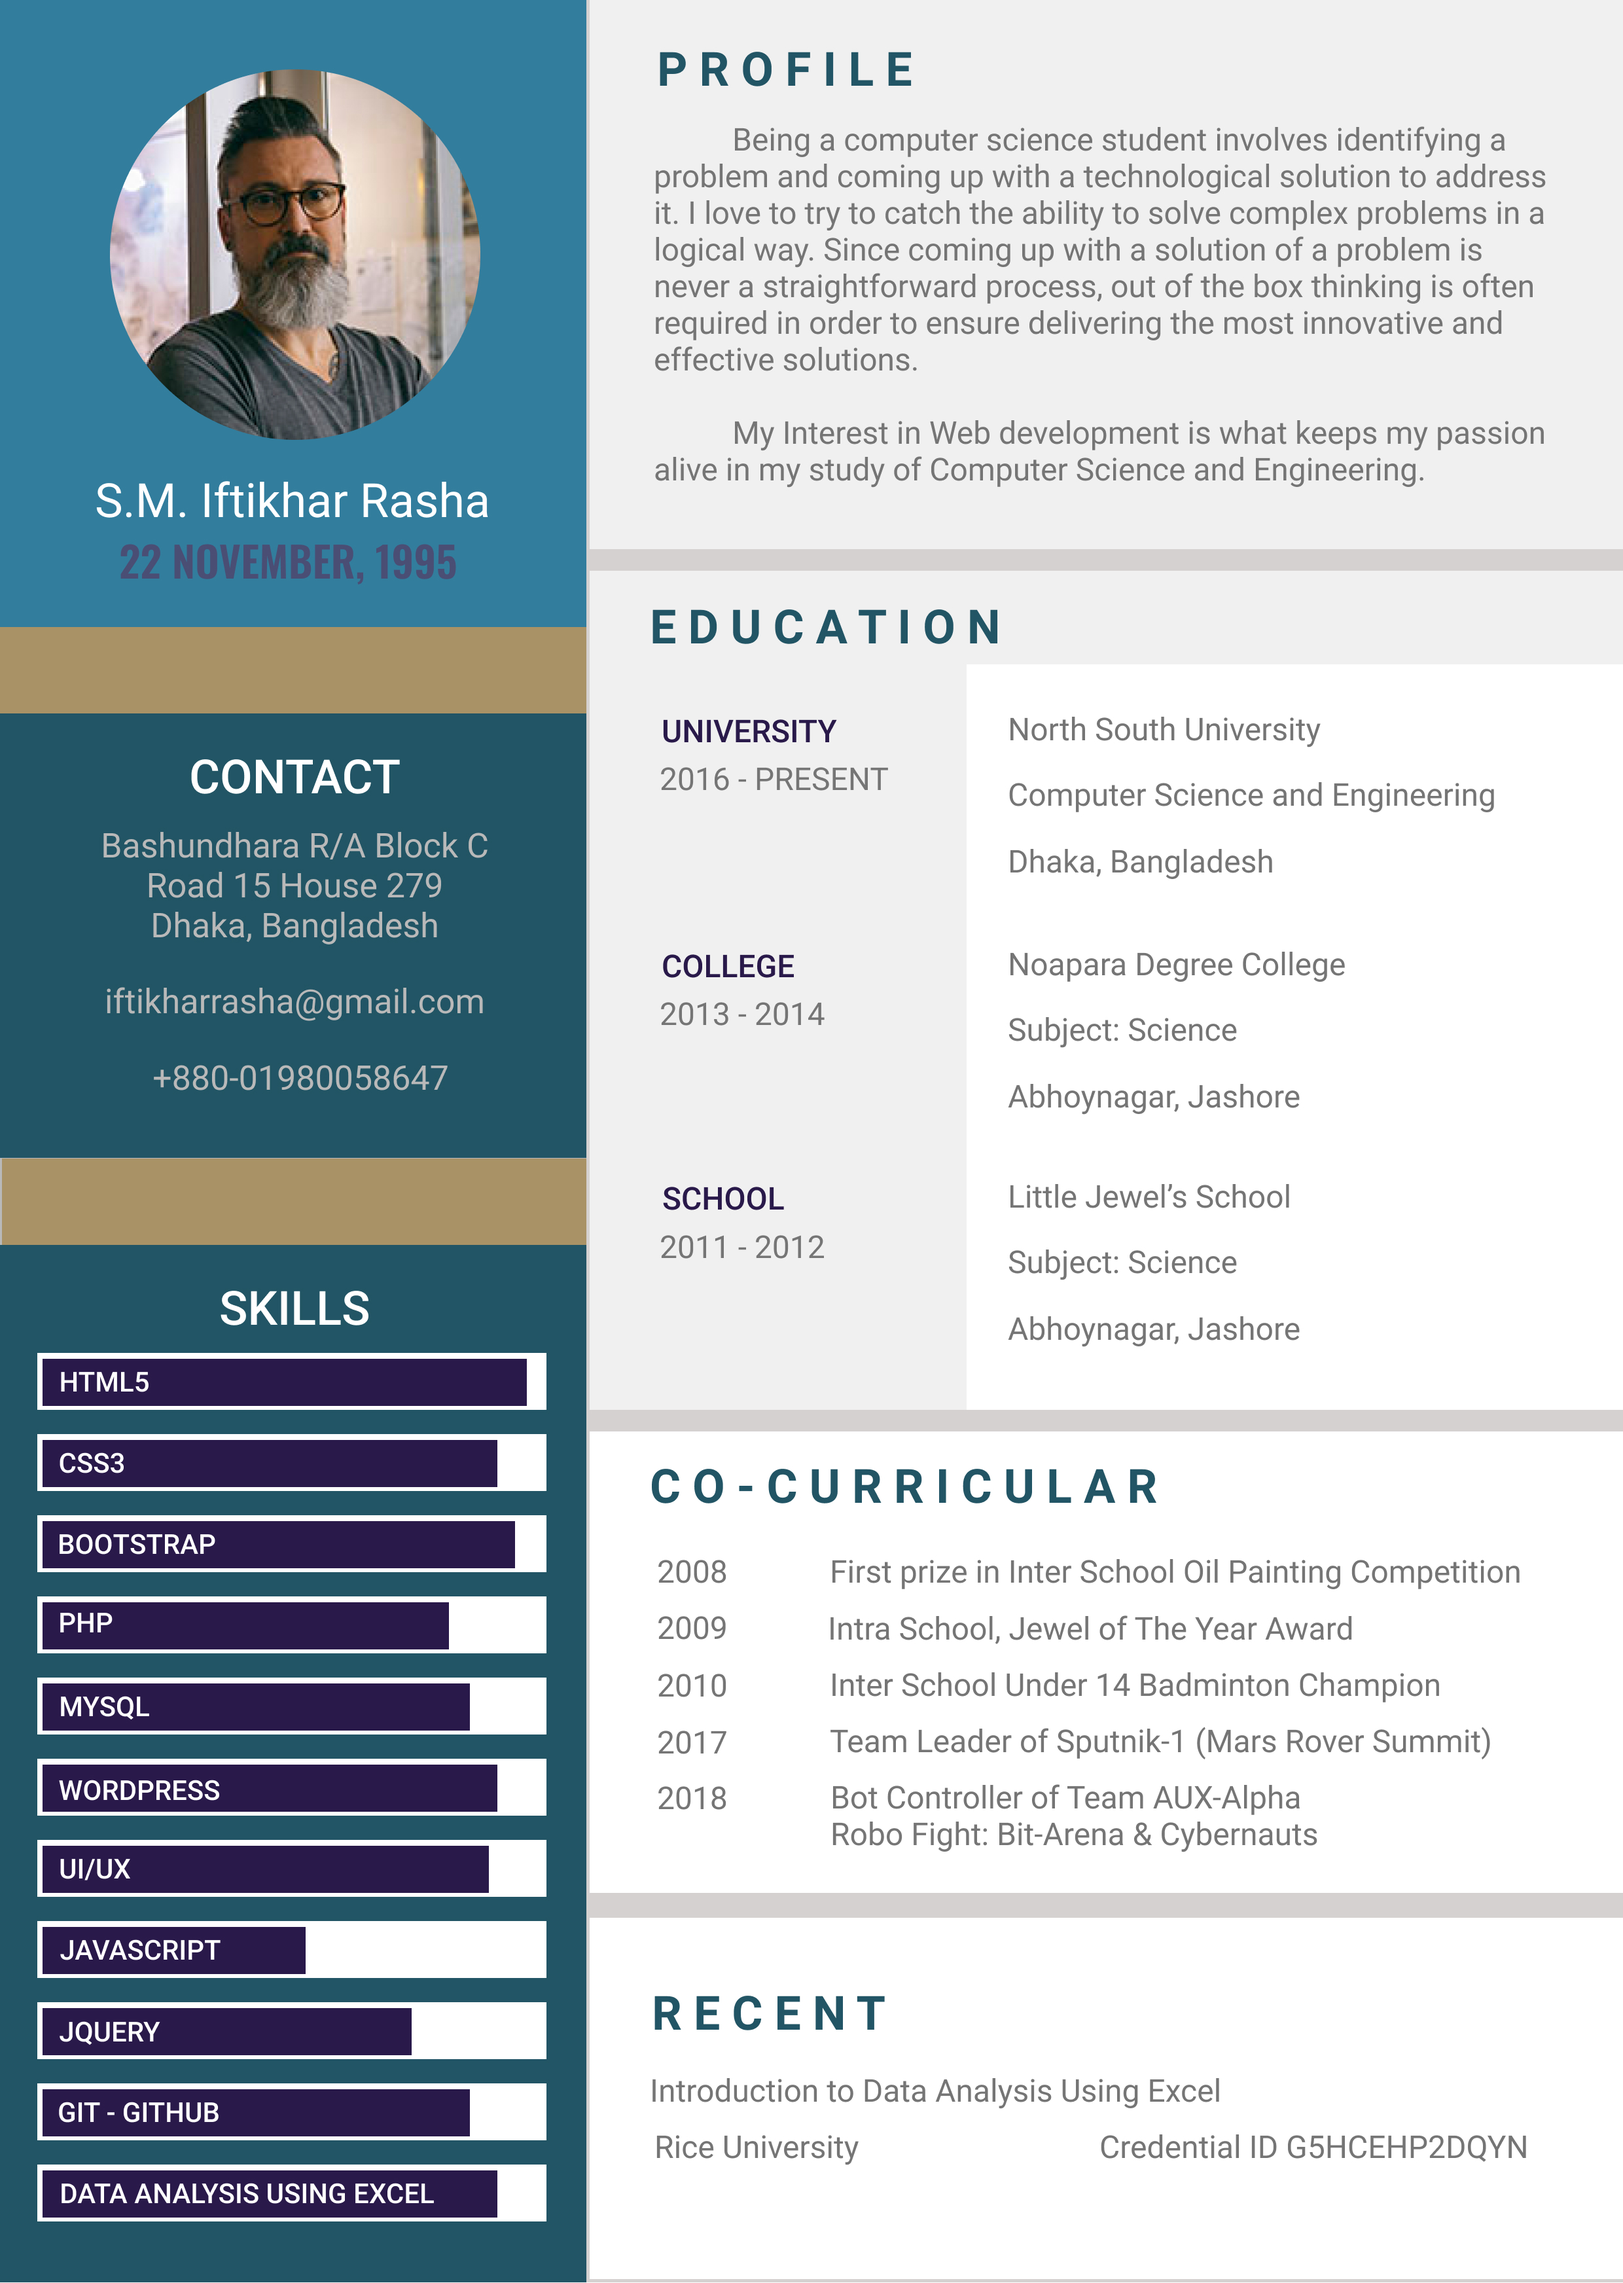
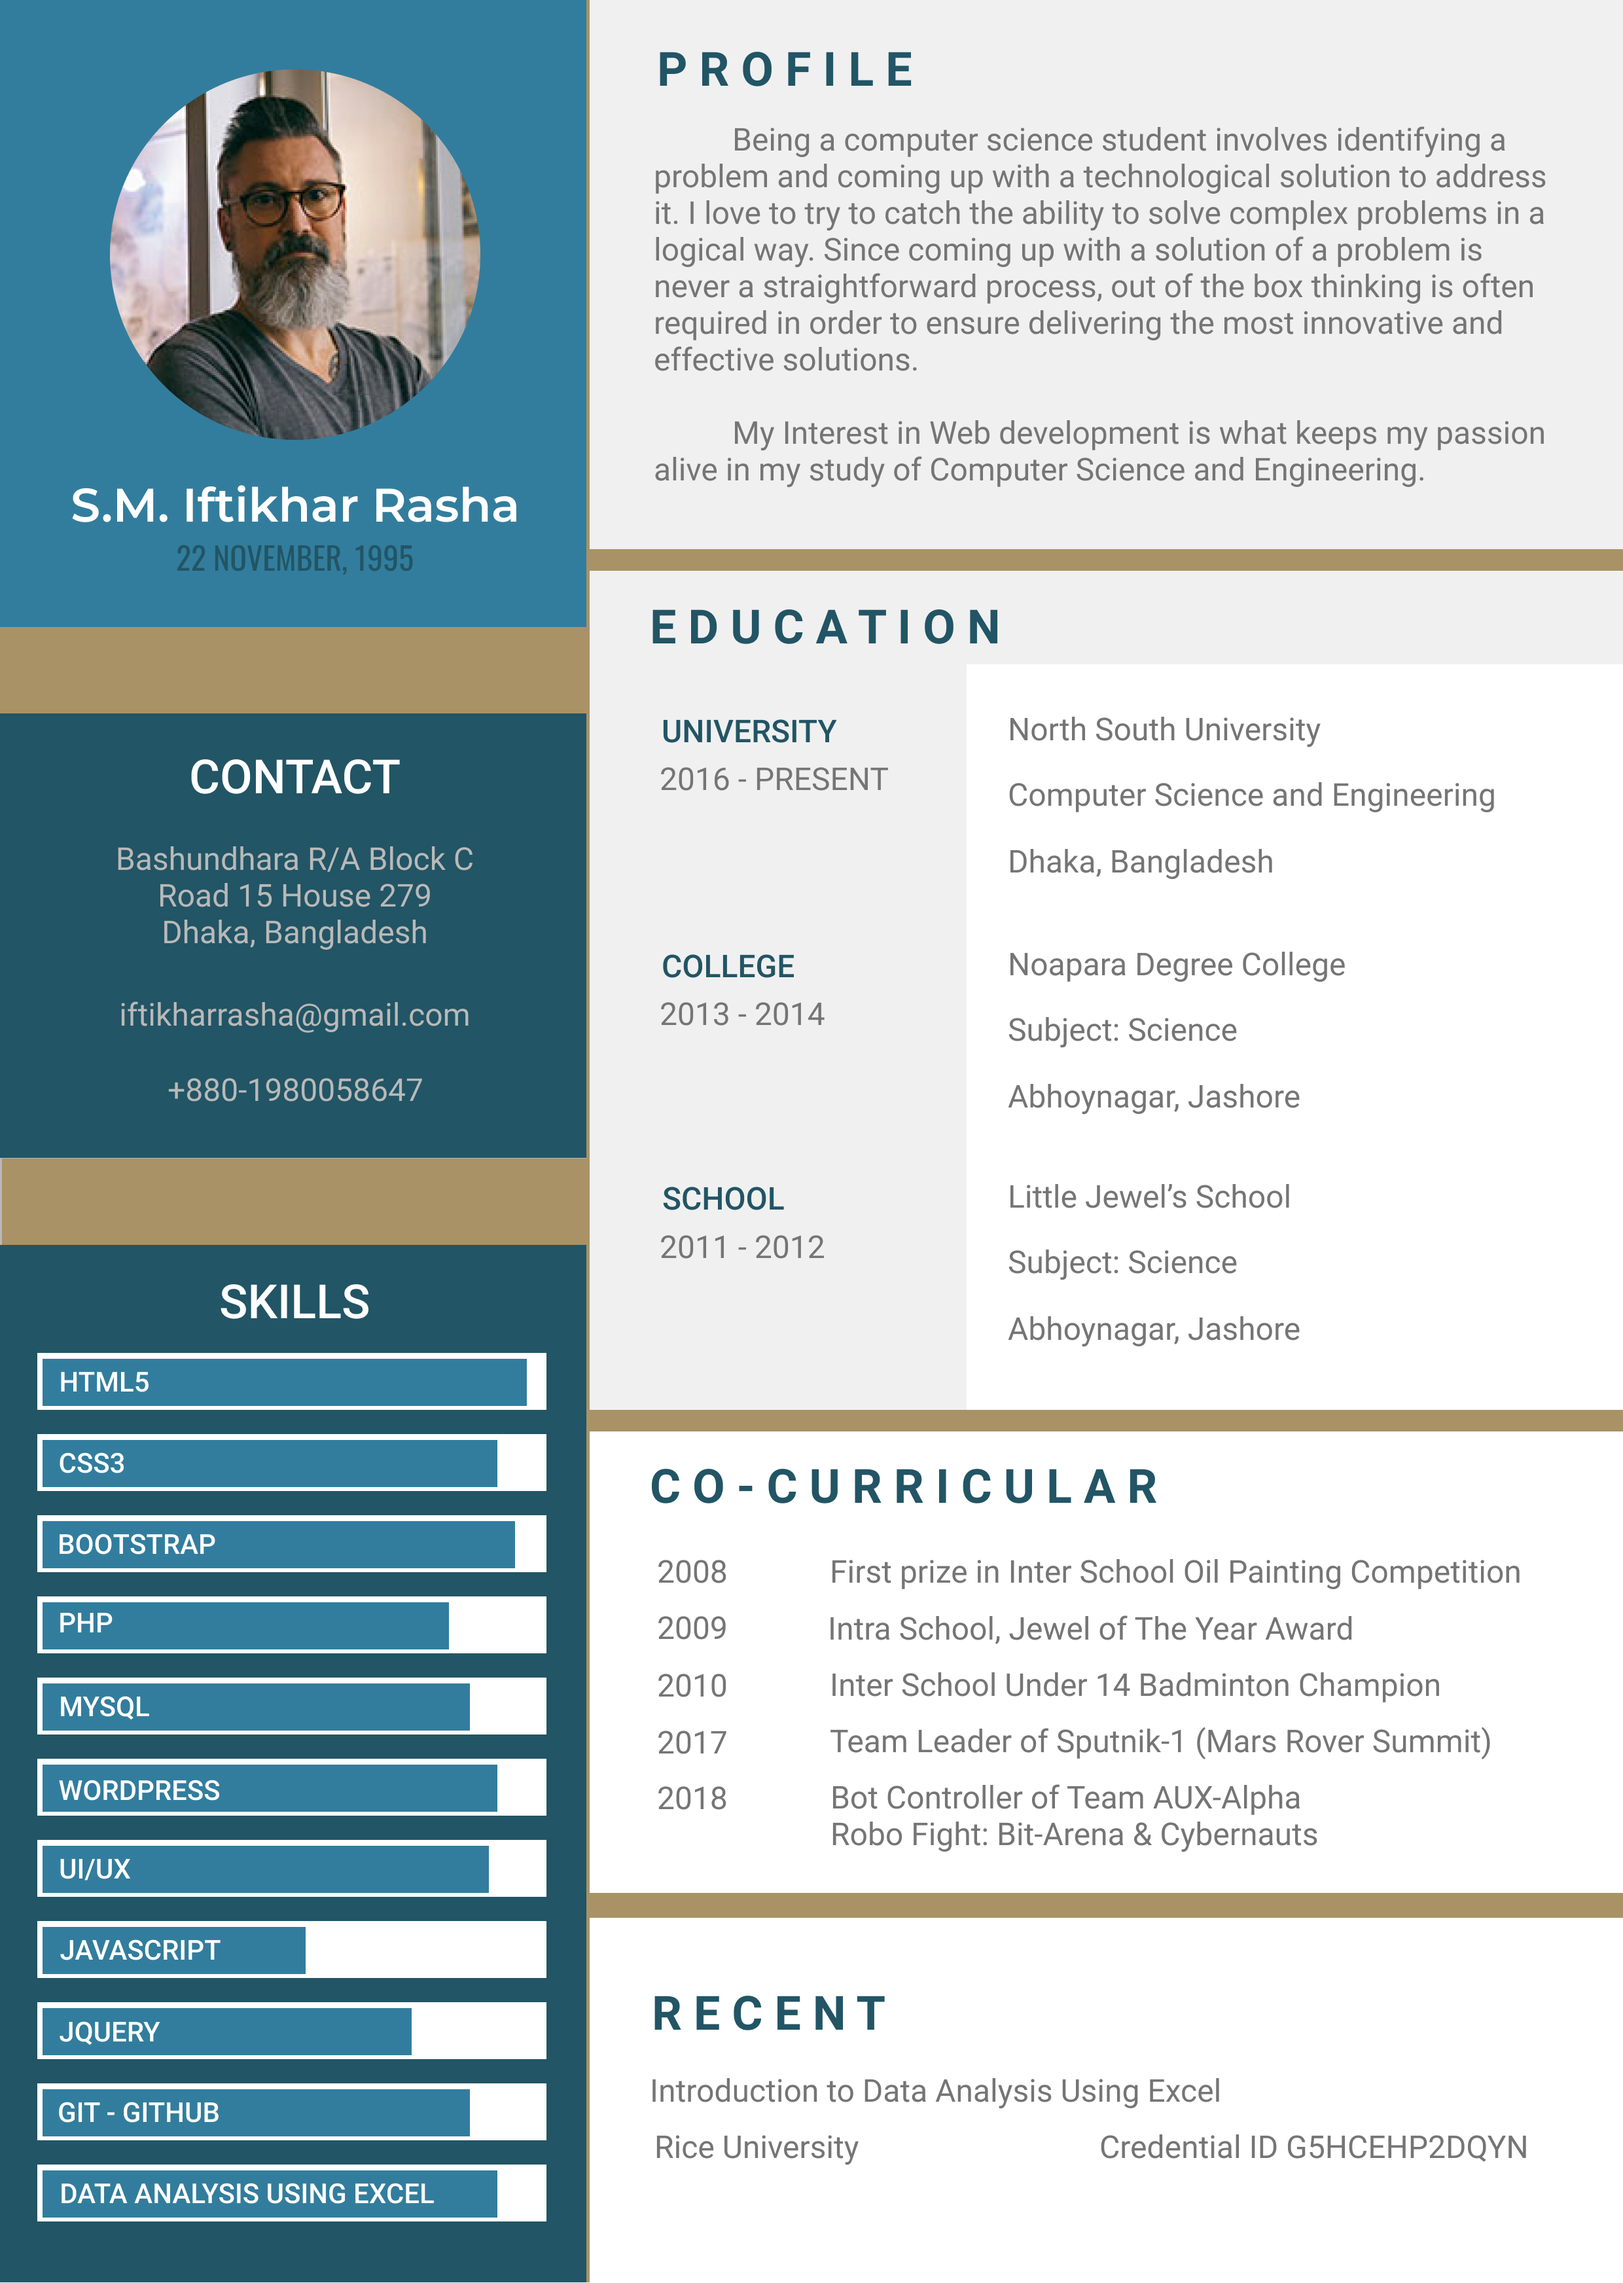
left column workdone

diff --git a/index.html b/index.html
@@ -26,112 +26,129 @@
                                    +880-1980058647</p>
             </div>
             <div class="br"></div>
+
             <div class="left_col_3">
+           
+              <div class="title">
                 <p class="header header3">Skills</p>
+              </div>
+                
                     <ul>
                       <li>
                         
                         <div class="skill_progress">
-                          <span style="width: 80%;"><div class="skill_name">
-                            HTML5
-                          </div></span>
+                          <span style="width: 88%;">
+                          <p class="align">HTML5</p>
+                        </span>
+                            
                         </div>
                       
                       </li>
                       <li>
                         
                         <div class="skill_progress">
-                          <span style="width: 70%;"><div class="skill_name">
-                            CSS3
-                          </div></span>
+                          <span style="width: 88%;">
+                          <p class="align">CSS3</p>
+                        </span>
+                            
                         </div>
                         
                       </li>
                       <li>
                         
                         <div class="skill_progress">
-                          <span style="width: 90%;"><div class="skill_name">
-                            BOOTSTRAP
-                          </div></span>
+                          <span style="width: 76%;">
+                          <p class="align">BOOTSTRAP</p>
+                        </span>
+                            
                         </div>
                         
                       </li>
                       <li>
                         
                         <div class="skill_progress">
-                          <span style="width: 60%;"><div class="skill_name">
-                            PHP
-                          </div></span>
+                          <span style="width: 73%;">
+                          <p class="align">PHP</p>
+                        </span>
+                            
                         </div>
                         
                       </li>
                       <li>
                         
                         <div class="skill_progress">
-                          <span style="width: 88%;"><div class="skill_name">
-                            MYSQL
-                          </div></span>
-                        </div>
-                       
-                      </li>
-                      <li>
-                        
-                        <div class="skill_progress">
-                          <span style="width: 88%;"><div class="skill_name">
-                            WORDPRESS
-                          </div></span>
+                          <span style="width: 81%;">
+                          <p class="align">MYSQL</p>
+                        </span>
+                            
                         </div>
                        
                       </li>
                       <li>
                         
                         <div class="skill_progress">
-                          <span style="width: 88%;"><div class="skill_name">
-                            UI/UX
-                          </div></span>
+                          <span style="width: 85%;">
+                          <p class="align">WORDPRESS</p>
+                        </span>
+                            
+                        </div>
+                       
+                      </li>
+                      <li>
+                        
+                        <div class="skill_progress">
+                          <span style="width: 88%;">
+                          <p class="align">UI/UX</p>
+                        </span>
+                            
                         </div>
                         
                       </li>
                       <li>
                         
                         <div class="skill_progress">
-                          <span style="width: 88%;"><div class="skill_name">
-                            JAVASCRIPT
-                          </div></span>
+                          <span style="width: 58%;">
+                          <p class="align">JAVASCRIPT</p>
+                        </span>
+                            
                         </div>
                       
                       </li>
                       <li>
                         
                         <div class="skill_progress">
-                          <span style="width: 88%;"><div class="skill_name">
-                            JQUERY
-                          </div></span>
+                          <span style="width: 71%;">
+                            <p class="align">JQUERY</p>
+                          </span>
+      
                         </div>
                       
                       </li>
                       <li>
                         
                         <div class="skill_progress">
-                          <span style="width: 88%;"><div class="skill_name">
-                            GIT-GITHUB
-                          </div></span>
+                          <span style="width: 80%;">
+                          <p class="align">GIT-GITHUB</p>
+                        </span>
+                          
                         </div>
                        
                       </li>
                       <li>
                         
                         <div class="skill_progress">
-                          <span style="width: 88%;"><div class="skill_name">
-                            DATA ANALYSIS WITH EXCEL
-                          </div></span>
+                          <span style="width: 88%;">
+                            <p class="align"> DATA ANALYSIS WITH EXCEL</p>
+                          </span>
+ 
                         </div>
+                      
                        
                       </li>
                     </ul>
-                  
 
             </div>
+          </div>
     
         <!--right column starts-->
         <div class="right_col_1.2">

diff --git a/css/style.css b/css/style.css
@@ -5,7 +5,7 @@
   }
   
   body {
-    background: #cfd1d4;
+    background: #413d3d;
     font-size: 14px;
     line-height: 22px;
     color: #0c0c0c;
@@ -14,7 +14,7 @@
 
   .container{
     width: 800px;
-    height: 1122px;
+    height: 1100px;
     display: flex;
     margin: 50px auto;
     background: #fff;
@@ -22,7 +22,7 @@
 
   .left_col{
     width: 280px;
-    height: 1122px;
+    height: 1100px;
     background: #000000;
   }
 
@@ -43,8 +43,9 @@
   .left_col_3{
     position: relative;
     width: 100%;
-    height: 498px;
+    height: 426px;
     background: #225565;
+    padding: 25px 0;
   }
 
   img{
@@ -107,20 +108,38 @@
     background: #A99265;
   }
 
-   ul li {
+   .container .left_col .left_col_3 ul li {
     display: flex;
     margin-bottom: 10px;
     align-items: center;
   }
 
-  .skill_name {
-    width: 25%;
+  .title{
+    margin-bottom: 40px;
   }
+
+  
   
   .skill_progress {
-    width: 60%;
+    width: 75%;
+    left: 30px;
     margin: 0 5px;
-    height: 20px;
-    background: #009fd9;
+    height: 25px;
+    background: #ffffff;
     position: relative;
+  }
+
+  span {
+    position: absolute;
+    top: 3px;
+    left: 3px;
+    height: 75%;
+    background: #327D9D;
+    font-size: 10px;
+  }
+
+  .align{
+    position: absolute;
+    left: 10px;
+    color: white;
   }
